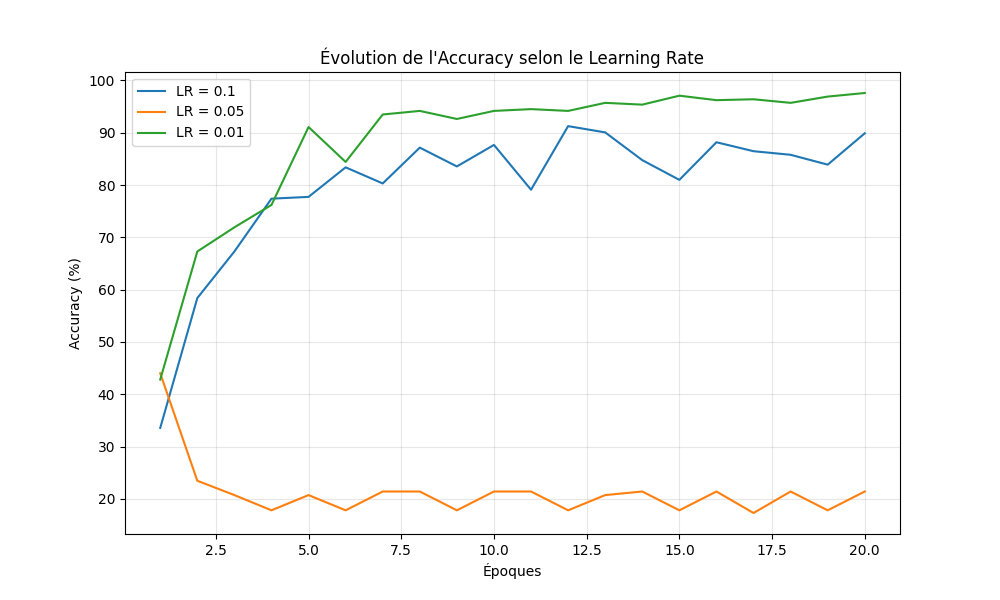
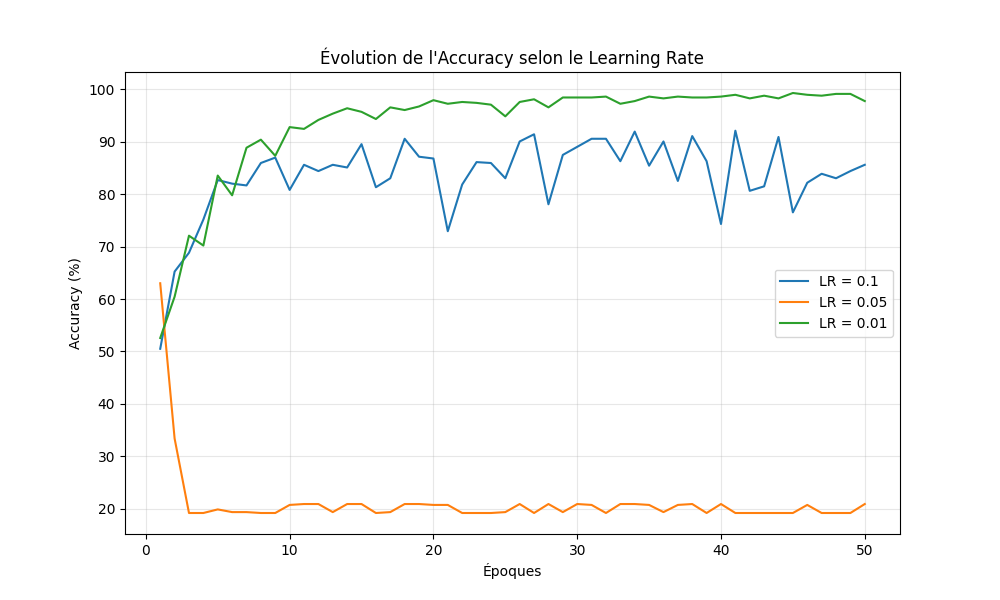
feat: Change epoch to 50

diff --git a/network/with_pytorch/benchmark.py b/network/with_pytorch/benchmark.py
@@ -39,7 +39,7 @@ train_dataloader = DataLoader(train_data, batch_size=32, shuffle=True)
 test_dataloader = DataLoader(test_data, batch_size=32, shuffle=False)
 
 device = torch.accelerator.current_accelerator().type if torch.accelerator.is_available() else "cpu"
-epochs = 20
+epochs = 50
 learning_rates_to_test = [0.1, 0.05, 0.01]
 
 # Préparation du graphique
